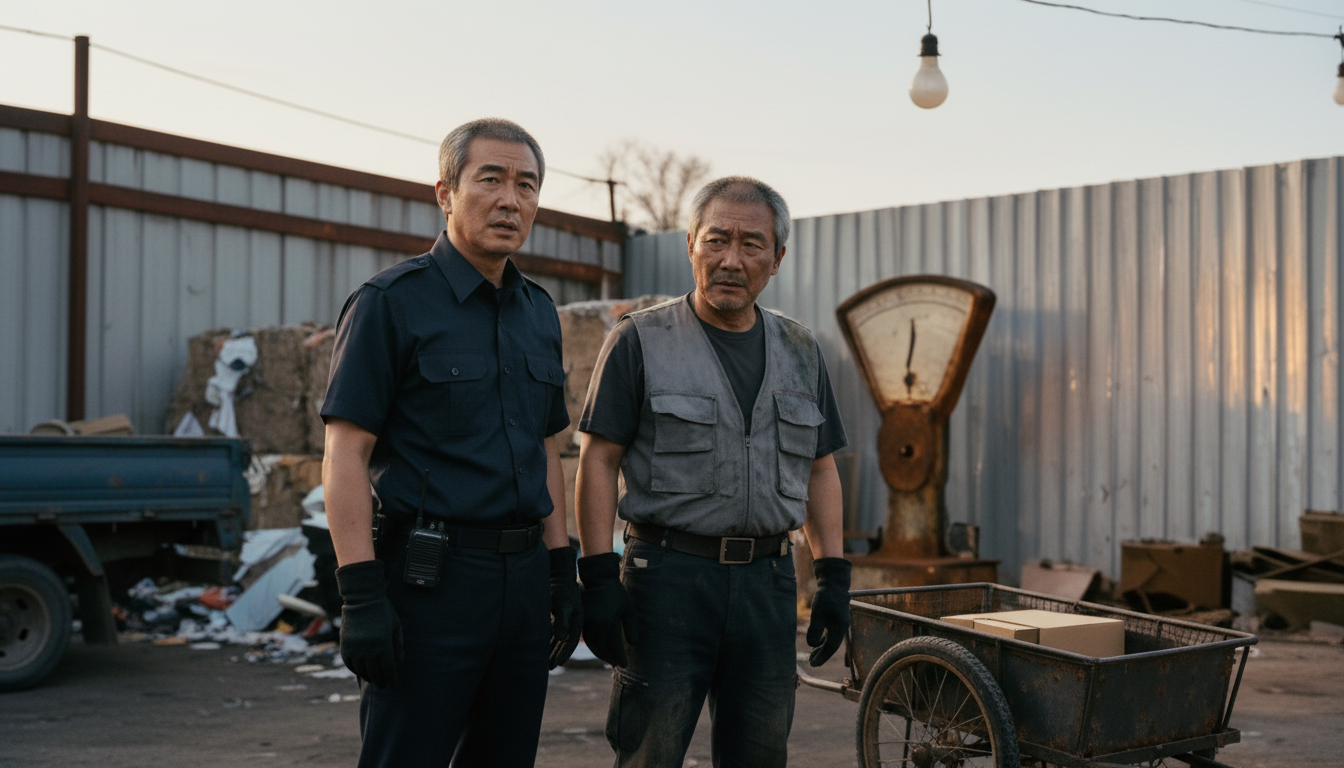
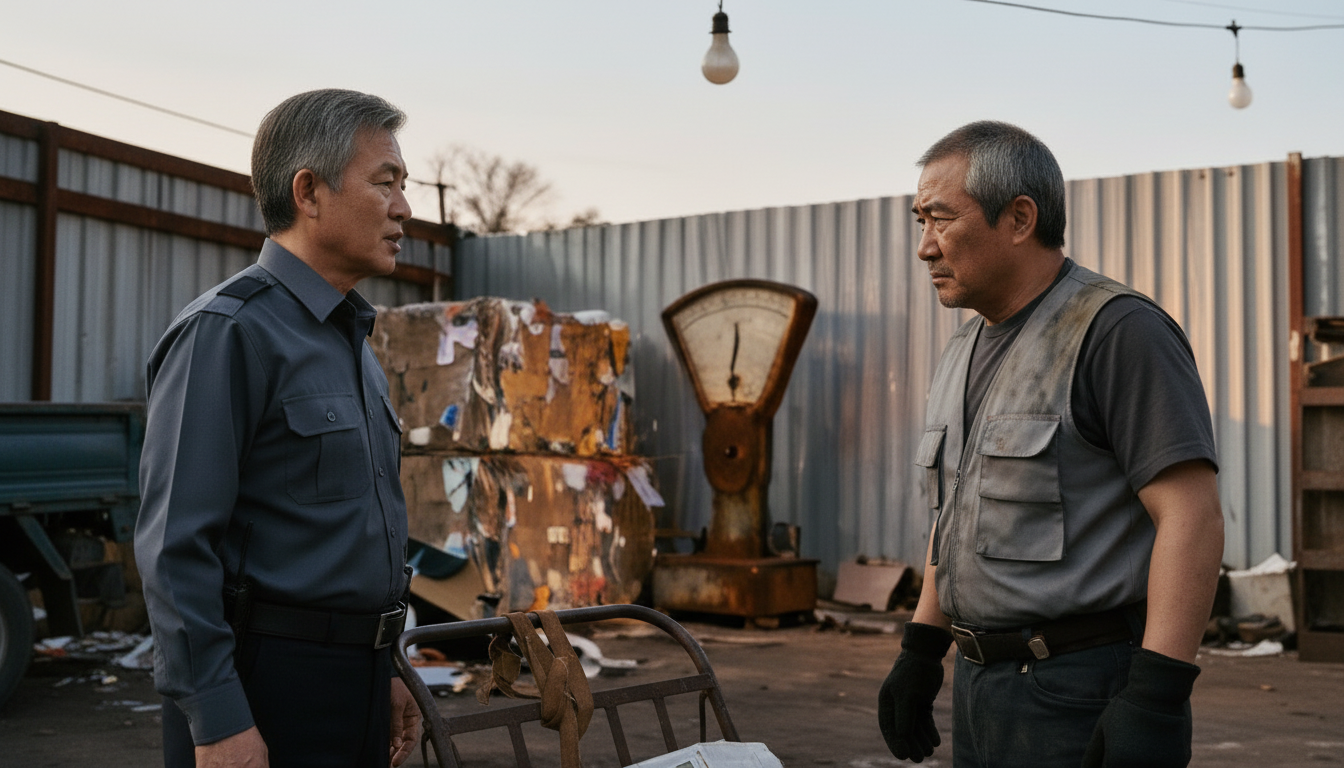
EP3 키프레임: S01·S02는 승인 원본(명찰 없음·긴팔)으로 복원, S34 합격, S29 T자 손잡이 재지시
Claude-Session: https://claude.ai/code/session_01AeoQmDXLUZEJdLTemjg1sM

diff --git a/scripts/build_ep3_keyframes.py b/scripts/build_ep3_keyframes.py
@@ -46,8 +46,10 @@ COMPOSITION = {
             "the rubble wall and is walking away from it."),
     "S25": ("Close-up on legs and shoes only, from the knees down, low camera: tired steps on the wet pavement. "
             "Nothing lies on the ground — no radio, no objects dropped; the radio stays clipped on his belt out of frame."),
-    "S29": ("Both of Kim's hands rest on the T-shaped cross grip at the end of the cart's front drawbar, the frayed "
-            "leather strap under his fingers, the cart bed behind the grip; same cart as the prop reference."),
+    "S29": ("The cart's front drawbar is ONE single straight pole that ends in ONE short horizontal cross-bar (a T "
+            "handle), exactly as in the prop reference's bottom-right panel — NOT a U-shaped loop, NOT two parallel bars, "
+            "NOT a shopping-cart handle. Kim's two hands rest on that short cross-bar, the frayed leather strap wound "
+            "around it under his fingers; the pole runs back to the cart bed behind him."),
     "S34": ("Kim walks away from the camera PULLING the cart by its front drawbar T-grip with one hand behind him, "
             "the cart trailing behind him nearer to the camera; same cart as the prop reference, no rear push handle."),
     "S01": ("Composition: Kim stands between Choi and the handcart with his body turned toward Choi; the two "
